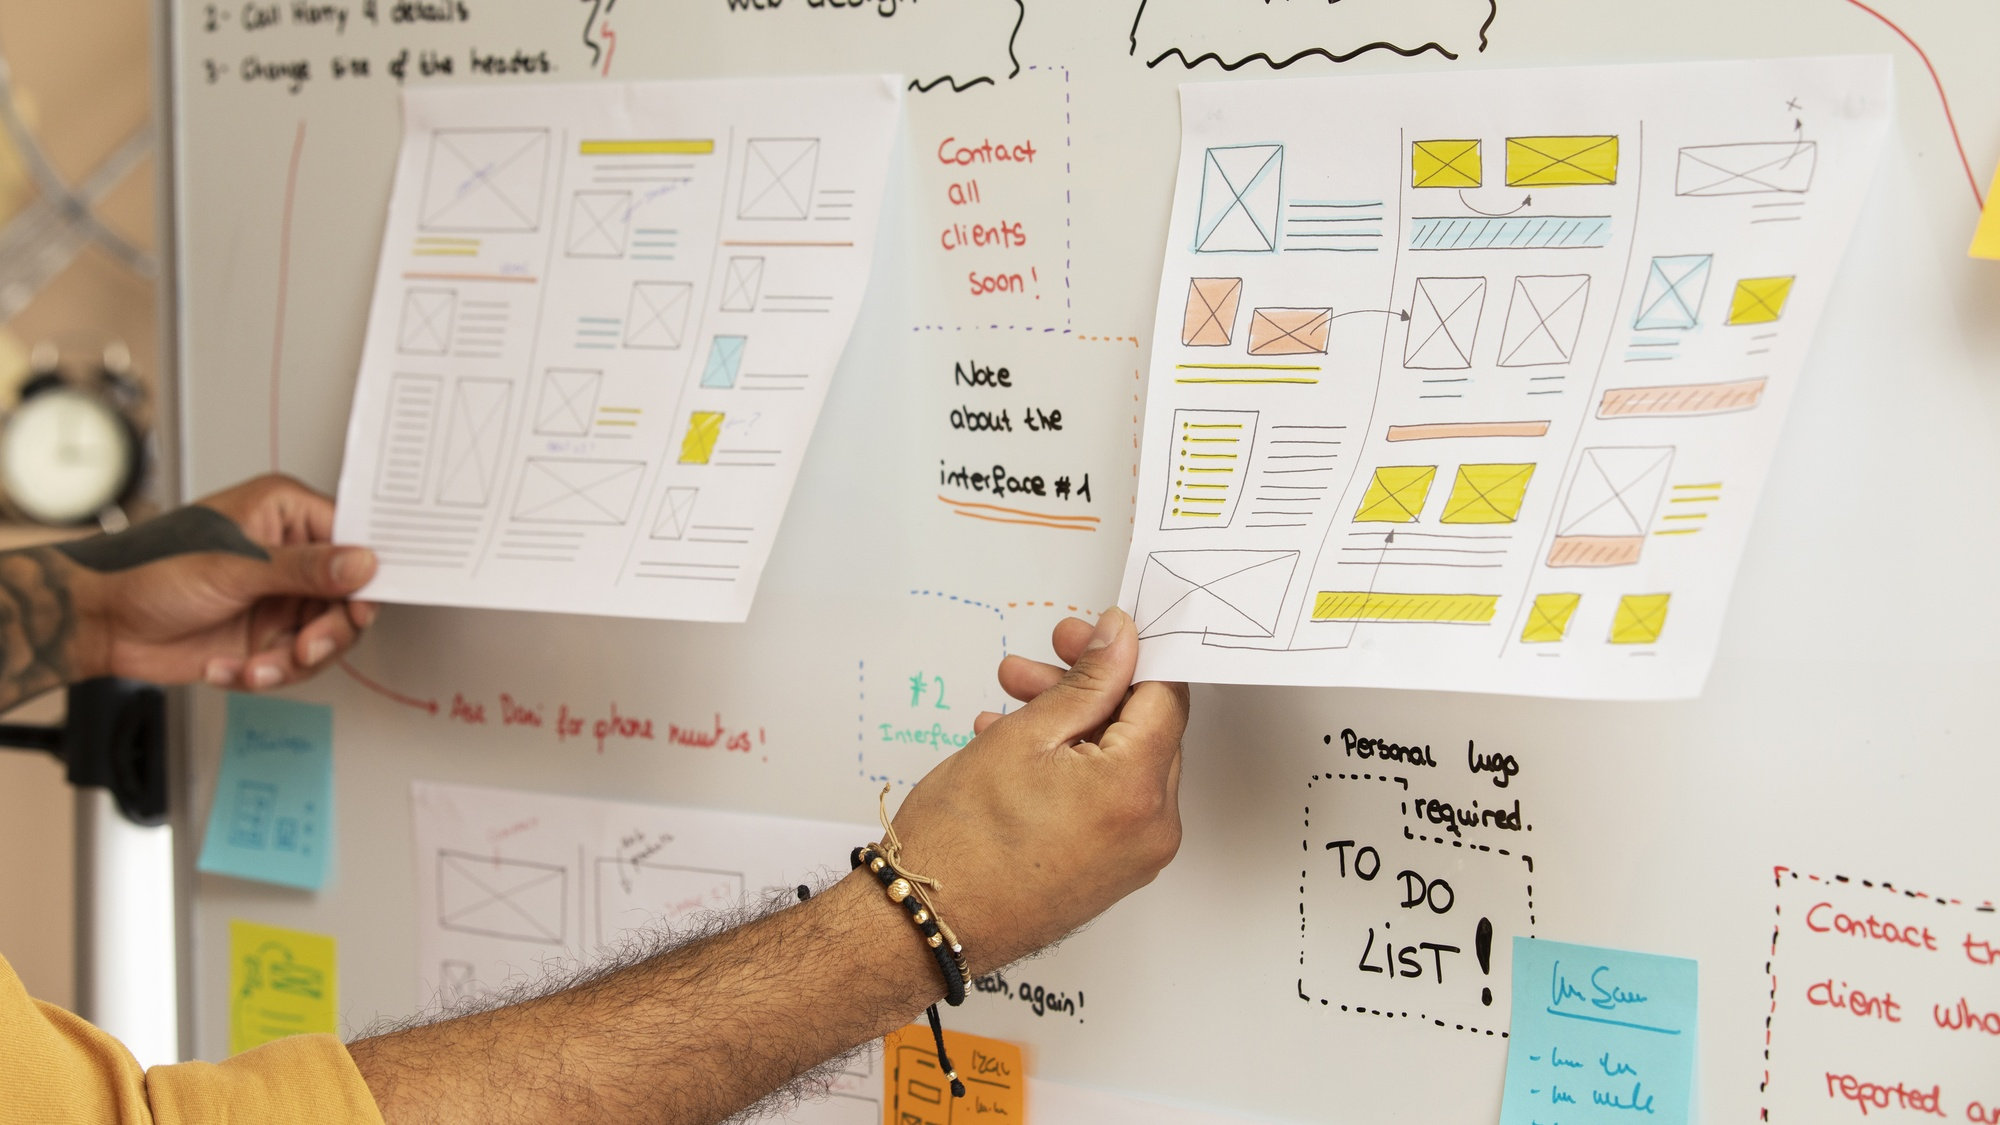
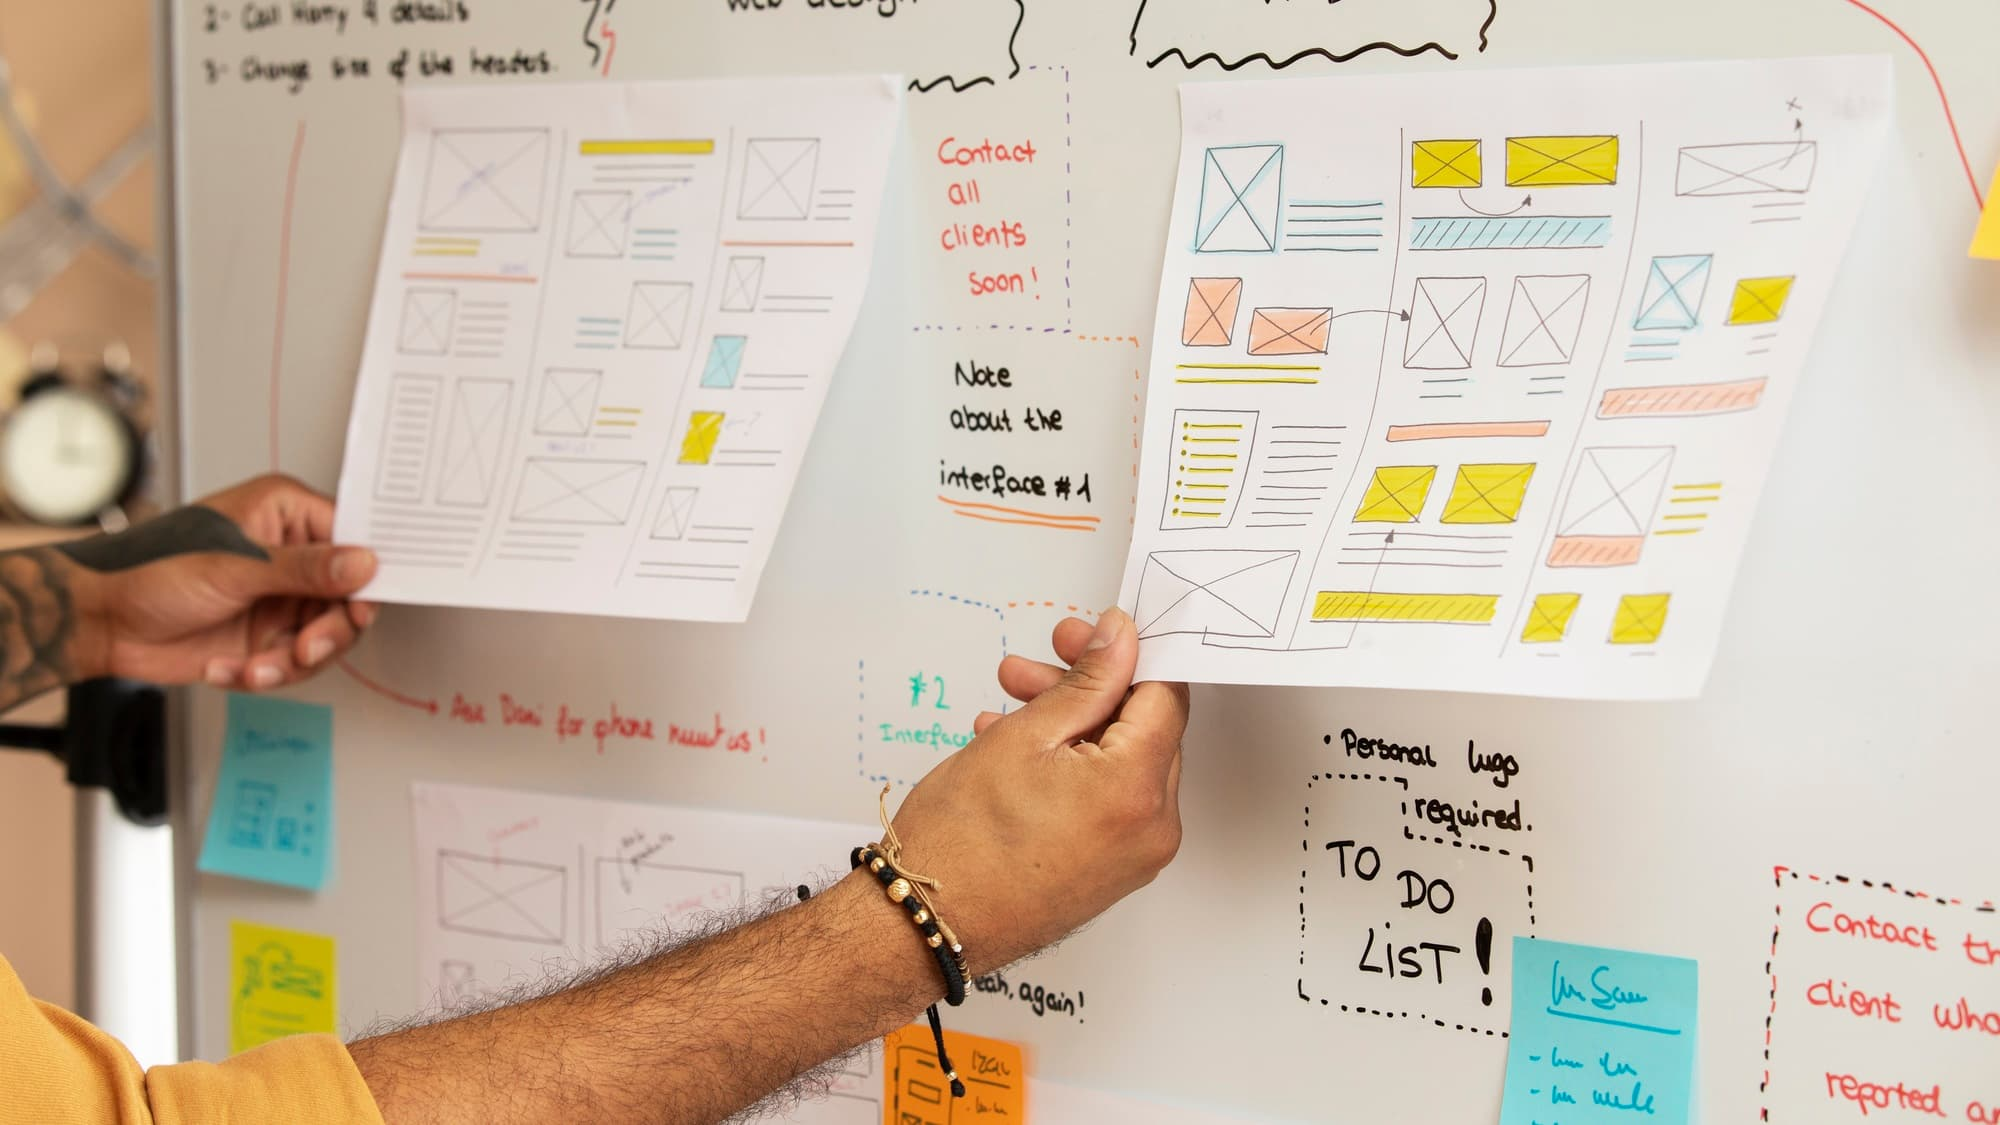
Mudando os formatos da imagens para webp e incluindo o robots.txt

diff --git a/src/data/Projetos.ts b/src/data/Projetos.ts
@@ -2,40 +2,40 @@ const Projetos = [
     {
         title: 'Pedra,Papel, Tesoura',
         description: 'Jogo de pedra, papel e tesoura',
-        image: '/img/resultados_dos_projetos/pedrapapeltesoura.png',
+        image: '/img/resultados_dos_projetos/pedrapapeltesoura.webp',
         site: "https://rock-paper-scissors-master-dun.vercel.app/",
         github: "https://github.com/DavidMarinho2203/rock-paper-scissors-master",
 
     },{
         title: 'Interface extensões',
         description: 'Interface do gerenciador de extensões',
-        image: '/img/resultados_dos_projetos/gerenciadorDeExtensoes.png',
+        image: '/img/resultados_dos_projetos/gerenciadorDeExtensoes.webp',
         site: "https://browser-extension-manager-ui-psi.vercel.app/",
         github: "https://github.com/DavidMarinho2203/browser-extension-manager-ui",
 
     },{
         title: 'Otimize Consultoria Jr',
         description: 'Landing Page para empresa da Otimize',
-        image: '/img/resultados_dos_projetos/otimize.png',
+        image: '/img/resultados_dos_projetos/otimize.webp',
         site: "https://otimizeconsultoriapb.netlify.app/",
         github: "https://github.com/DavidMarinho2203/projeto-otimize",
 
     },{
         title: 'Bronzeamento',
         description: 'Lading Page para uma empresa de bronzeamento',
-        image: '/img/resultados_dos_projetos/bronze.png',
+        image: '/img/resultados_dos_projetos/bronze.webp',
         site: "https://karol-bronze.netlify.app/",
         github: "https://github.com/DavidMarinho2203/projeto-karol-bronze",
     }, {
         title: 'Fotógrafo',
         description: 'Lading Page para uma profissional da fotógrafia',
-        image: '/img/resultados_dos_projetos/fotografia.png',
+        image: '/img/resultados_dos_projetos/fotografia.webp',
         site: "https://projeto-para-fotografos.vercel.app/",
         github: "https://github.com/DavidMarinho2203/projeto-para-fotografos",
     }, {
         title: 'Salgateria',
         description: 'Landing Page para uma loja de salgados',
-        image: '/img/resultados_dos_projetos/salgateria.png',
+        image: '/img/resultados_dos_projetos/salgateria.webp',
         site: "https://reidossalgados.netlify.app/",
         github: "https://github.com/DavidMarinho2203/projeto-rei-dos-salgados",
     }, 

diff --git a/src/app/page.tsx b/src/app/page.tsx
@@ -7,7 +7,7 @@ export default function Home() {
   return (
     <div className="relative min-h-screen bg-gradient-to-b from-[#0a192f] to-[#112240] overflow-hidden flex justify-center items-center pb-10">
 
-      <VideoCompoment arquivoMP4={"/videos/sobre.mp4"} arquivoStatic={"/videos/static/sobre.jpeg"}/>
+      <VideoCompoment arquivoMP4={"/videos/sobre.mp4"} arquivoStatic={"/videos/static/sobre.webp"}/>
 
       {/* Camada escura sobre o vídeo (opcional) */}
       <div className="absolute top-0 left-0 w-full h-full bg-black/60 z-10" />
@@ -25,6 +25,7 @@ export default function Home() {
             loop
             muted
             playsInline
+            poster={"/videos/static/logo.webp"}
           >
             <source src="/videos/logo.mp4" type="video/mp4" />
             Seu navegador não suporta vídeos em HTML5.

diff --git a/src/app/Projetos/page.tsx b/src/app/Projetos/page.tsx
@@ -11,7 +11,7 @@ const page = () => {
     return (
         <div className="relative min-h-screen bg-gradient-to-b from-[#0a192f] to-[#112240] overflow-hidden flex justify-center items-center pb-10">
 
-            <VideoCompoment arquivoMP4={"/videos/projetos.mp4"} arquivoStatic={"/videos/static/projetos.jpeg"} />
+            <VideoCompoment arquivoMP4={"/videos/projetos.mp4"} arquivoStatic={"/videos/static/projetos.webp"} />
 
             <Header />
 

diff --git a/src/app/Contato/page.tsx b/src/app/Contato/page.tsx
@@ -49,7 +49,7 @@ const Page = () => {
     return (
         <div className="relative min-h-screen bg-gradient-to-b from-[#0a192f] to-[#112240] overflow-hidden flex justify-center items-center pb-10">
 
-            <VideoCompoment arquivoMP4={"/videos/contato.mp4"} arquivoStatic={"/videos/static/contato.jpeg"} />
+            <VideoCompoment arquivoMP4={"/videos/contato.mp4"} arquivoStatic={"/videos/static/contato.webp"} />
 
             <Header />
 
